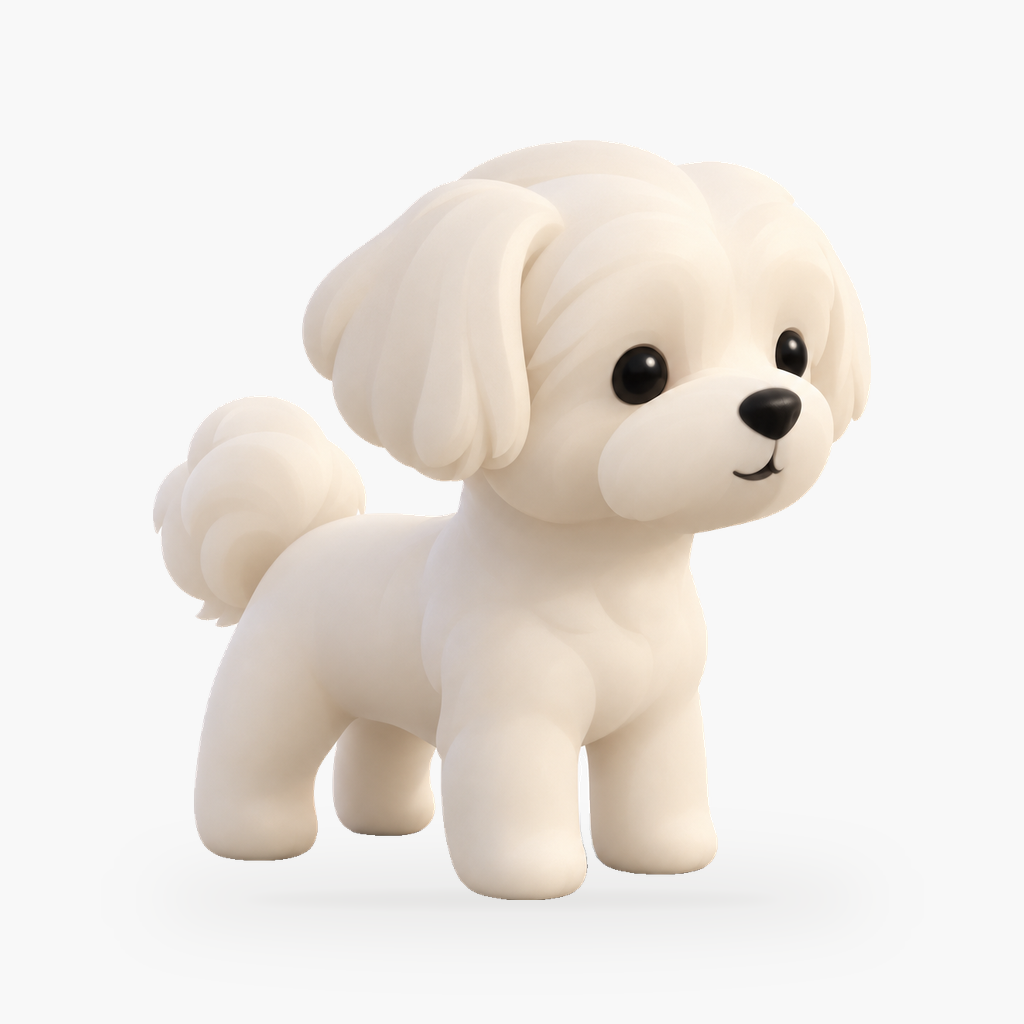
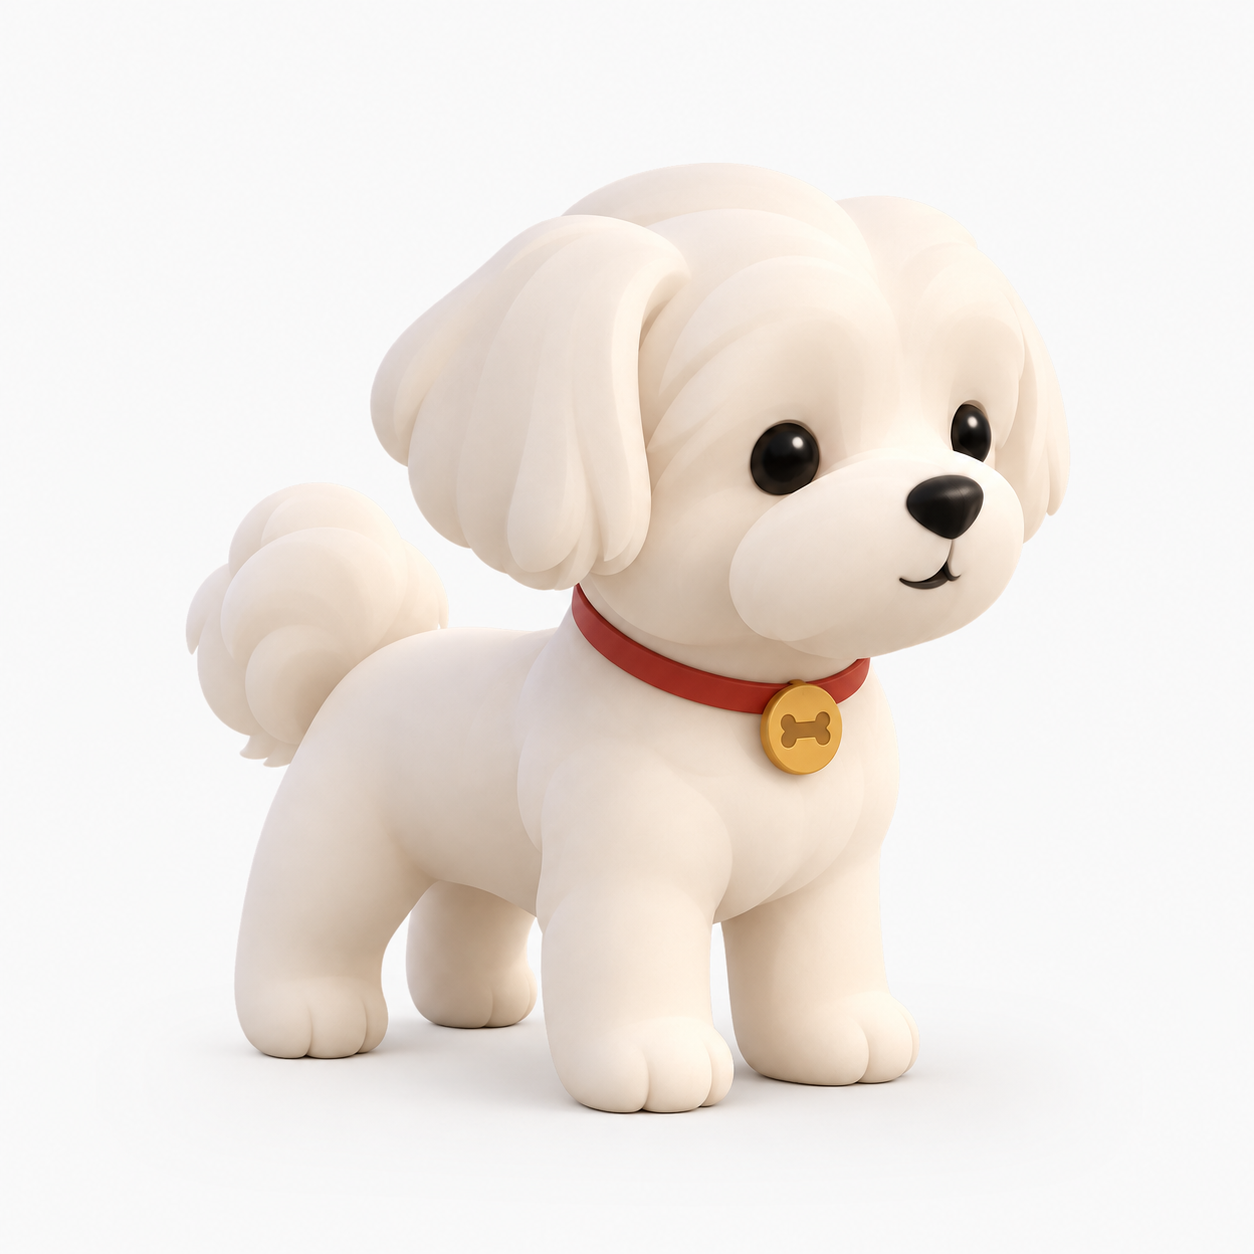
docs(character): ship the handover notes and stop gitignoring them
.gitignore 의 `*.md` 규칙이 docs/ 문서까지 잡아서, 넘겨받는 사람이 봐야 할 문서가
한 번도 올라간 적이 없었습니다. README.md 와 docs/**/*.md 는 예외로 두었습니다.
CHARACTER_FEATURE.md 는 사진 업로드를 걷어 낸 지금 흐름(캐릭터 세부 꾸미기)에 맞춰
새로 썼고, 새 견종 추가 절차와 남겨 둔 AI 코드의 처리 방법을 덧붙였습니다.

diff --git a/docs/CHARACTER_FEATURE.md b/docs/CHARACTER_FEATURE.md
@@ -1,0 +1,68 @@
+# 캐릭터 세부 꾸미기
+
+프로필에 적어 둔 견종의 3D 캐릭터를 밑그림으로 놓고, 눈·귀·얼굴 크기와 털 색을 우리 아이에 가깝게
+다듬어 저장하는 기능입니다. 튜토리얼(`/web/start`) 마지막 단계와 우리 강아지(`/web/dog`) 무대에서 들어갑니다.
+
+> **2026-09-20 변경:** 원래는 사진 한 장을 올리면 AI 가 견종을 알아맞혀 캐릭터를 그려 주는
+> "내 강아지 캐릭터 만들기" 였습니다. 사진만 보고 견종을 맞히는 정답률이 너무 낮아 **사진 업로드를
+> 걷어 내고**, 이미 만들어 둔 얼굴 수정 기능을 살려 지금의 이름·흐름으로 바꿨습니다.
+> 서버 AI 파이프라인(아래 "남겨 둔 AI 코드")은 지우지 않고 남겨 두었지만 화면에서 부르지 않습니다.
+
+## 흐름
+
+```
+/web/start 완료 단계 ─[캐릭터 세부 꾸미기]─┐
+/web/dog 무대 ─[캐릭터 세부 꾸미기]───────┴▶ /web/start/character?dog=<id>
+  1 꾸미기  견종 캐릭터를 밑그림으로 불러와 슬라이더·눈 모양·털 색 조절 (전부 브라우저 캔버스)
+  2 완성    최종 그림(투명 WebP) + 값 저장 → 로그인 전 localStorage, 로그인 후 dog_characters
+```
+
+서버 호출도 AI 호출도 없습니다. 기다림 없이 바로 뜨고, 오프라인에서도 동작합니다.
+
+## 어디서 무엇이 정해지는가
+
+| 구분 | 처리 |
+|---|---|
+| 밑그림 캐릭터 (`static/dogs/<key>.webp`) | 프로필 견종 → `$lib/domain/breeds.ts` 의 `findBreed` 로 결정. 못 찾으면 말티즈 |
+| 견종 기본 특징 (털 색·질감·귀·주둥이·꼬리) | `$lib/domain/breedCharacter.ts` 의 `breedSketches` |
+| 부위 위치 (머리·눈·코·귀·몸·꼬리 박스) | 같은 파일의 `breedLayouts`. 손으로 잰 값이라 새 견종을 넣으면 여기도 채워야 함 |
+| 눈 크기·간격·모양, 얼굴·머리·귀·꼬리·몸 크기, 몸통 비율, 전체 크기 | `src/lib/character/renderer.ts` 국소 워프 (liquify) |
+| 털 색상 6종 | 같은 파일의 재채색. 눈·코·입, 흰 무늬, 분홍 귀 속, 그림자는 보호 |
+
+`expression`(표정)은 자료 구조에만 남아 있고 항상 `smile` 입니다. 표정은 그림 자체를 새로 그려야
+바뀌는 값이라, AI 를 걷어 내면서 화면에서 뺐습니다.
+
+## 파일
+
+- `src/lib/domain/character.ts` — 타입, 슬라이더 범위, 색 프리셋, 검증. 서버·브라우저·테스트 공용
+- `src/lib/domain/breedCharacter.ts` — **견종별 기본 특징·부위 위치.** 브라우저와 서버가 함께 읽습니다
+- `src/lib/character/renderer.ts` — 캔버스 재채색 + 워프, 저장용 내보내기
+- `src/lib/character/image.ts` — 저장 전 그림 축소 (`shrinkDataUrl`)
+- `src/routes/web/start/character/+page.svelte`, `src/lib/components/web/CharacterCanvas.svelte`
+- `src/routes/api/character/+server.ts` — 저장(PUT)·삭제(DELETE). 이건 계속 씁니다
+- `db/008_dog_characters.sql` — `npm run db:setup` 으로 적용
+
+## 새 견종을 추가하려면
+
+1. `static/dogs/<key>.webp`(무대용)·`static/dogs/thumb/<key>.webp`(목록용)·`static/dogs/cut/<key>.webp`(배경 지운 판) 추가
+   — `scripts/breed-import.py`, `scripts/breed-cutout.py` 참고
+2. `src/lib/domain/breeds.ts` 목록에 추가. **격자가 한 줄 다섯 칸이라 23종 + 믹스·기타 = 25칸으로 딱 맞습니다.**
+   한 종을 더하려면 한 종을 빼야 줄이 안 삐져나와요
+3. `src/lib/domain/breedCharacter.ts` 에 `breedSketches`(기본 특징)와 `breedLayouts`(부위 위치) 추가.
+   `breedLayouts` 가 없으면 자동 추정값으로 그려져 슬라이더가 엉뚱한 곳을 늘립니다
+
+## 남겨 둔 AI 코드
+
+`src/lib/server/character/`(`prompts.ts`·`gemini.ts`·`claude.ts`·`references.ts`·`mock.ts`·`index.ts`)와
+`src/routes/api/character/{analyze,generate}/+server.ts` 는 **지우지 않고 남아 있지만 화면에서 부르지
+않습니다.** 사진 기반 생성을 다시 열려면 그 엔드포인트에 사진을 보내는 화면만 새로 만들면 됩니다.
+필요 없다고 판단되면 위 파일들과 `.env` 의 `GEMINI_*`·`ANTHROPIC_API_KEY`·`CHARACTER_MOCK` 을 통째로
+지워도 지금 기능은 그대로 동작합니다.
+
+`mock.ts` 는 `breedCharacter.ts` 의 값을 그대로 씁니다. 견종 데이터를 고칠 때 두 곳을 손댈 필요가 없습니다.
+
+## 스타일 가이드 (assets/breeds 견종 캐릭터에서 뽑은 공통점)
+
+머리가 몸만큼 큰 치비 비율, 짧고 통통한 다리, 작은 검은 구슬 눈 + 흰 하이라이트 하나, 둥근 검정 코, 가는 선 미소,
+털은 가닥 없이 매끈한 덩어리, 무광 소프트비닐 피규어 질감, 좌상단 조명, 발 아래 옅은 그림자, 흰 배경, 오른쪽을 보는
+4분의 3 측면, 따뜻한 파스텔 톤. 이 문장이 `prompts.ts` 의 `STYLE_GUIDE` 입니다. 새 견종 그림을 만들 때 참고하세요.
